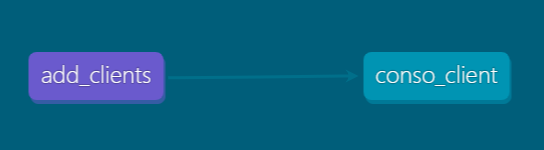
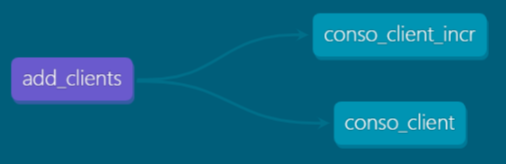
compare with incremental model

Changed region(s): [[0.5929, 0.08, 0.9783, 0.9067], [0.0, 0.3467, 0.3261, 0.6933]]

diff --git a/integration_tests/models/stg/add_clients.py b/integration_tests/models/stg/add_clients.py
@@ -5,8 +5,7 @@ from datetime import datetime
 
 def add_clients(session, nb, start):
     fake = Faker()
-    fake_client = [fake.first_name(), fake.last_name(), fake.date_of_birth(minimum_age=18, maximum_age=90)]
-    clients = [[value] + fake_client + [datetime.now()] for value in range(start, start + nb)]
+    clients = [[value] + [fake.first_name(), fake.last_name(), fake.date_of_birth(minimum_age=18, maximum_age=90)] + [datetime.now()] for value in range(start, start + nb)]
     df = session.create_dataframe(clients, schema=["ID", "FIRST_NAME", "LAST_NAME", "BIRTHDATE", "CREATED_AT"])
     return df
 

diff --git a/README.md b/README.md
@@ -66,18 +66,23 @@ Incremental materialization will perform the following tasks :
 
 
 # Working Example
-`/integration_test` contains a DBT project working example with two models.
+`/integration_test` contains a working example with **two models and a test**:
+* To validate `incremental_stream` and `incremental` materialization produce the same output
+* To do performance test 
 
 | model | description |
 |-------|-------------|
 | [add_clients](#add_clients-model) ([source](/integration_tests/models/stg/add_clients.py)) | Python 🐍 incremental model adding new random clients. To simulate a stream source like a Kafka topic |
-| [conso_clients](#conso_clients-model) ([source](/integration_tests/models/dwh/conso_client.sql)) | `incremental_stream` model de-duplicating clients on `ID` |
+| [conso_client](#conso_client-model) ([source](/integration_tests/models/dwh/conso_client.sql)) | `incremental_stream` model de-duplicating clients on `ID` |
+| [conso_client_incr](#conso_client-model) ([source](/integration_tests/models/dwh/conso_client_incr.sql)) | standard dbt `incremental` model to compare result and performance |
 
 ![lineage](/readme/lineage.png)
 ```
-# Add 30 new random clients to ADD_CLIENTS table and merge it in CONSO_CLIENTS
+# 1. Add 30 new random clients to ADD_CLIENTS table 
+# 2. Merge it in CONSO_CLIENT and CONSO_CLIENT_INCR
+# 3. Test CONSO_CLIENT and CONSO_CLIENT_INCR equals
 cd ./integration_test
-dbt run
+dbt build
 ```
 
 ## add_clients model
@@ -107,7 +112,7 @@ dbt run --select add_clients --vars '{nb_clients: 100}'
 dbt run --select add_clients --full-refresh
 ```
 
-## conso_clients model
+## conso_client model
 A sample model leveraging on `incremental_stream` custom materialization
 1. Collecting lastest data ingested in [add_clients](#add_clients-model)
 2. De-duplicating it based on `ID` with most recent `CREATED_AT` from [add_clients](#add_clients-model) stream or table

diff --git a/integration_tests/docs/conso_client.md b/integration_tests/docs/conso_client.md
@@ -1,0 +1,9 @@
+{% docs conso_client %}
+## Client consolidation
+**Table consolidating clients from add_clients**. Contains **the last update of clients only** (based on ID and CREATED_AT columns)
+1. Collect lastest data ingested in `add_clients`
+2. De-duplicate it based on `ID` with most recent `CREATED_AT` from `add_clients` stream or table (in --full-refresh mode)
+3. `MERGE` data in `CONSO_CLIENTS` table with `ID` as unique key 
+> **Note**
+> Use on `incremental_stream` materialisation collecting data from [Streams](https://docs.snowflake.com/en/user-guide/streams-intro) 
+{% enddocs %}
